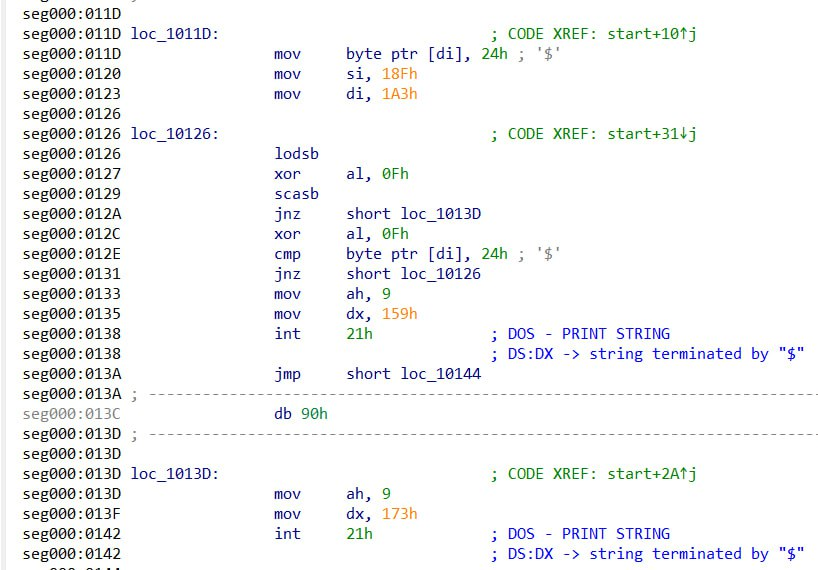
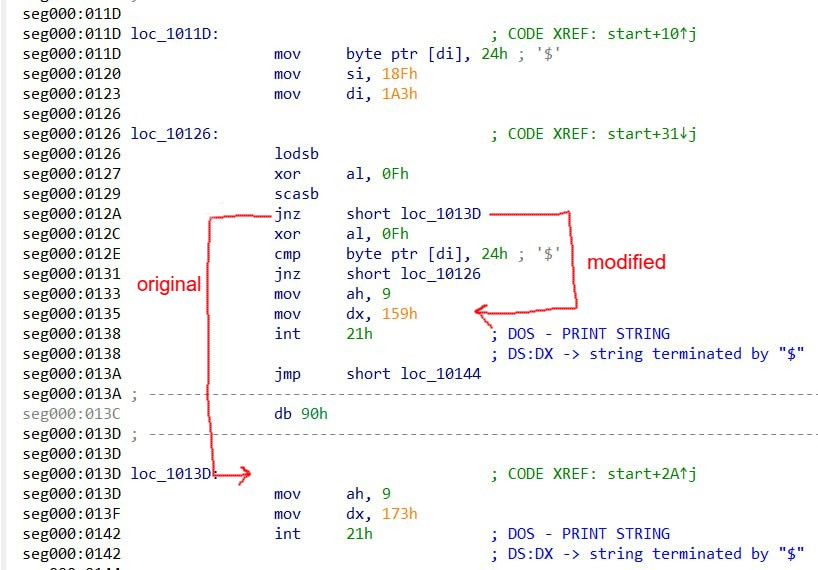
readme add

diff --git a/README.md b/README.md
@@ -49,7 +49,7 @@
     Изменяемый байт представляет из себя относительный адрес для Jump'a. 
     Таким образом Jump передаёт управление функции, 
     которая сообщает, что пароль верный.
-    (рис. 2)
+<img src="src/prog.jpg" alt="Cnfkj" width="590" height="300">
 
 
        
